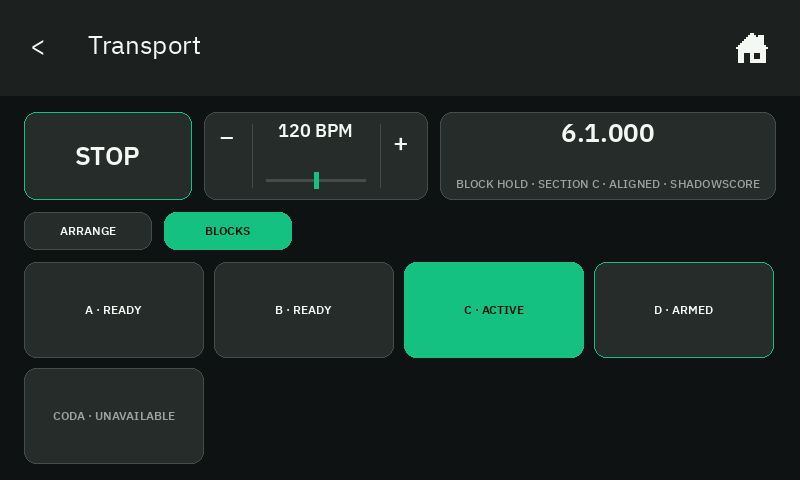
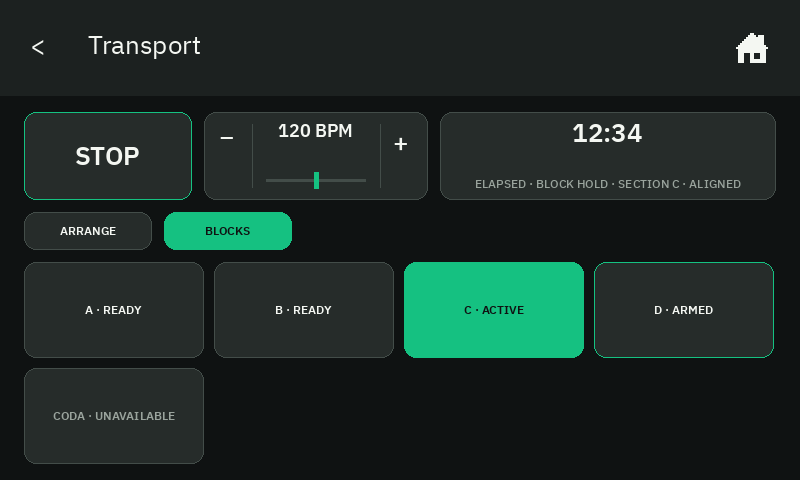
feat: show elapsed time in blocks view

Changed region(s): [[0.5625, 0.375, 0.9688, 0.4062], [0.6875, 0.25, 0.8125, 0.3125]]

diff --git a/tests/test_touch_direct_ui.py b/tests/test_touch_direct_ui.py
@@ -594,6 +594,7 @@ class TouchDirectUITests(unittest.TestCase):
             "position_bbt": "1.2.000",
             "duration_beats": 16,
             "active_section": "A",
+            "playback_session": {"id": 2, "started_at": "2026-08-21T17:30:00.000Z", "elapsed_seconds": 754.8, "running": True},
             "arrangement": {"requested_mode": "run", "running": True, "sections": [{"id": "A", "start_beat": 0, "end_beat": 8}, {"id": "B", "start_beat": 8, "end_beat": 16}]},
             "block_launcher": {
                 "active_block_id": "A",
@@ -625,6 +626,11 @@ class TouchDirectUITests(unittest.TestCase):
         self.assertEqual([target.button_id for target in block_targets], ["transport_block_index:0", "transport_block_index:1", "transport_block_index:2"])
         self.assertEqual(block_targets[2].action_kind, "noop")
 
+        renderer, display = _render_touch_layout(ui)
+        labels = [op[1] for op in display.ops if op[0] == "text"]
+        self.assertIn("12:34", labels)
+        self.assertNotIn("1.2.000", labels)
+
         action = _touch_action_for_target(renderer, kind="transport_control", button_id="transport_block_index:1")
         ui.handle_event(UIEvent(kind=action.kind, button_id=action.button_id))
         commands = [item for item in ui.pop_actions() if item.kind == "transport_command"]
@@ -647,6 +653,15 @@ class TouchDirectUITests(unittest.TestCase):
         ui.handle_event(UIEvent(kind="tap_button", button_id="transport_play_stop"))
         commands = [item for item in ui.pop_actions() if item.kind == "transport_command"]
         self.assertEqual(commands[0].value, {"operation": "play", "args": {"arrangement_mode": "hold"}})
+
+    def test_transport_elapsed_label_formats_minutes_and_hours(self) -> None:
+        ui = ShadowboxUI()
+        ui.apply_shadowscore_transport_snapshot({"revision": 1, "playback_session": {"elapsed_seconds": 0}})
+        self.assertEqual(ui.transport_playback_elapsed_label, "00:00")
+        ui.apply_shadowscore_transport_snapshot({"revision": 2, "playback_session": {"elapsed_seconds": 3599.9}})
+        self.assertEqual(ui.transport_playback_elapsed_label, "59:59")
+        ui.apply_shadowscore_transport_snapshot({"revision": 3, "playback_session": {"elapsed_seconds": 3671}})
+        self.assertEqual(ui.transport_playback_elapsed_label, "1:01:11")
 
     def test_touch_transport_tempo_scrub_previews_and_commits_once_on_release(self) -> None:
         ui = ShadowboxUI(touch_locate_available=True)

diff --git a/shadowbox/renderer.py b/shadowbox/renderer.py
@@ -1713,13 +1713,17 @@ class ShadowboxRenderer:
         transport = ui.state.shadowscore_transport if ui.server_transport_available else {}
         sync = transport.get("sync", {}) if isinstance(transport.get("sync"), dict) else {}
         previewing = ui.state.transport_locate_preview is not None
-        position = ui.transport_locate_position_label if previewing else str(transport.get("position_bbt") or "-")
+        blocks_view = ui.server_transport_available and ui.state.transport_view == "blocks"
+        position = ui.transport_playback_elapsed_label if blocks_view else ui.transport_locate_position_label if previewing else str(transport.get("position_bbt") or "-")
         section = ui.transport_locate_section_label if previewing else str(transport.get("active_section") or "-")
         sync_state = str(sync.get("state") or "uncertain").upper()
         authority = ui.transport_authority_label
         arrangement = transport.get("arrangement", {}) if isinstance(transport.get("arrangement"), dict) else {}
         workflow = "BLOCK HOLD" if arrangement.get("requested_mode") == "hold" else "ARRANGE"
-        context_label = f"{workflow} · SECTION {section} · {sync_state} · {authority}" if ui.server_transport_available else "LOCAL RUNNER"
+        if blocks_view:
+            context_label = f"ELAPSED · {workflow} · SECTION {section} · {sync_state}"
+        else:
+            context_label = f"{workflow} · SECTION {section} · {sync_state} · {authority}" if ui.server_transport_available else "LOCAL RUNNER"
         if self.has_color:
             self._rounded_theme(info_x, top_y, info_w, top_h, 12, "panel_alt", True)
             self._rounded_theme(info_x, top_y, info_w, top_h, 12, "line", False)

diff --git a/shadowbox/ui.py b/shadowbox/ui.py
@@ -1253,6 +1253,19 @@ class ShadowboxUI:
         return float(value) if isinstance(value, (int, float)) and not isinstance(value, bool) else None
 
     @property
+    def transport_playback_elapsed_seconds(self) -> float:
+        session = self.state.shadowscore_transport.get("playback_session", {})
+        value = session.get("elapsed_seconds", 0) if isinstance(session, dict) else 0
+        return max(0.0, float(value)) if isinstance(value, (int, float)) and not isinstance(value, bool) else 0.0
+
+    @property
+    def transport_playback_elapsed_label(self) -> str:
+        total_seconds = int(self.transport_playback_elapsed_seconds)
+        hours, remainder = divmod(total_seconds, 3600)
+        minutes, seconds = divmod(remainder, 60)
+        return f"{hours}:{minutes:02d}:{seconds:02d}" if hours else f"{minutes:02d}:{seconds:02d}"
+
+    @property
     def transport_authority_label(self) -> str:
         return "SHADOWSCORE" if self.server_transport_available else "LOCAL"
 

diff --git a/tools/generate_ui_screenshots.py b/tools/generate_ui_screenshots.py
@@ -309,6 +309,7 @@ def _transport_locate_ui() -> ShadowboxUI:
         "duration_beats": 32,
         "time_signature_numerator": 4,
         "active_section": "C",
+        "playback_session": {"id": 4, "started_at": "2026-08-21T17:30:00.000Z", "elapsed_seconds": 754, "running": True},
         "arrangement": {
             "requested_mode": "run",
             "running": True,
@@ -338,6 +339,7 @@ def _transport_surface_ui() -> ShadowboxUI:
         "duration_beats": 32,
         "time_signature_numerator": 4,
         "active_section": "C",
+        "playback_session": {"id": 4, "started_at": "2026-08-21T17:30:00.000Z", "elapsed_seconds": 754, "running": True},
         "arrangement": {
             "requested_mode": "run",
             "running": True,
